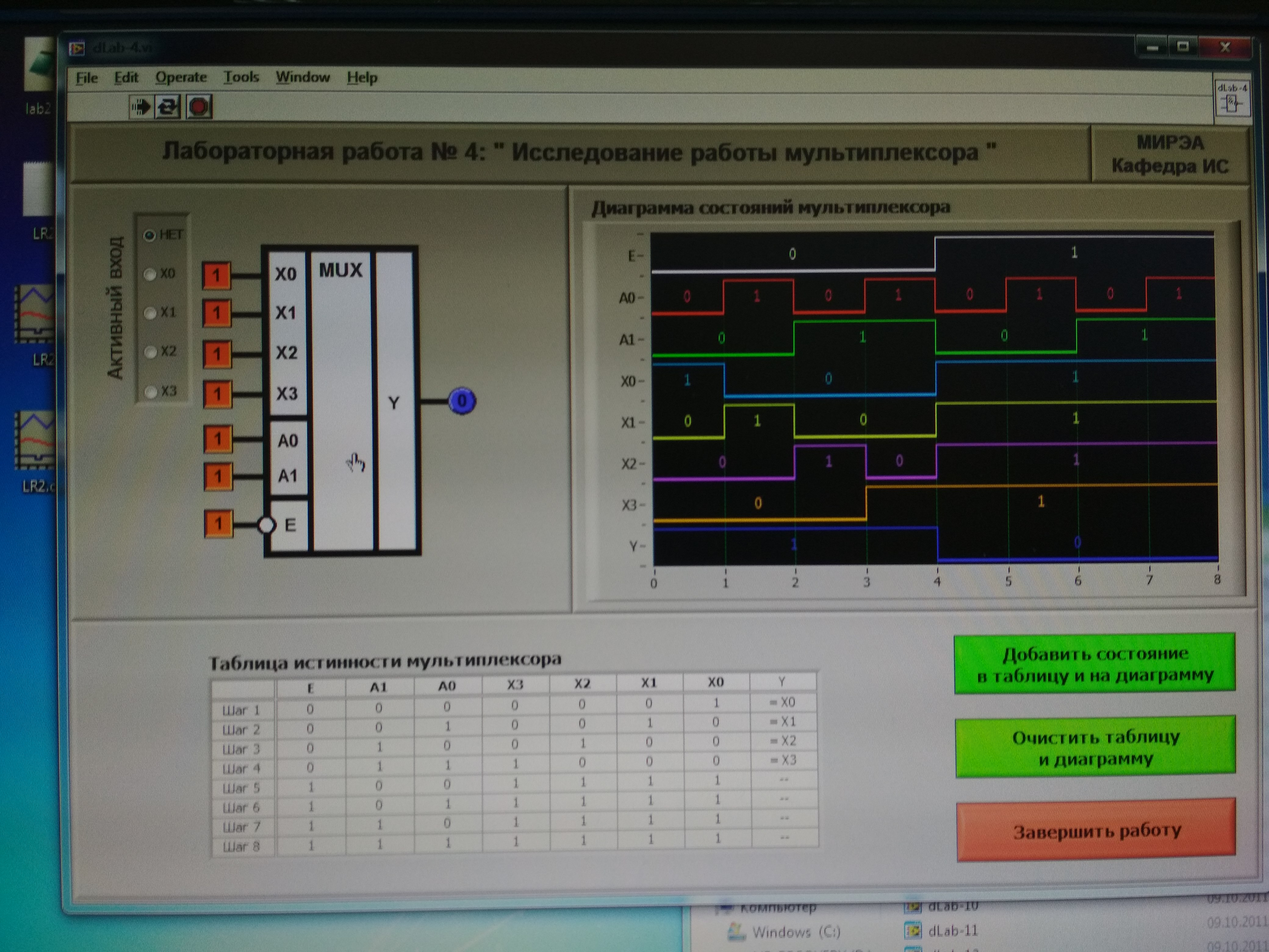
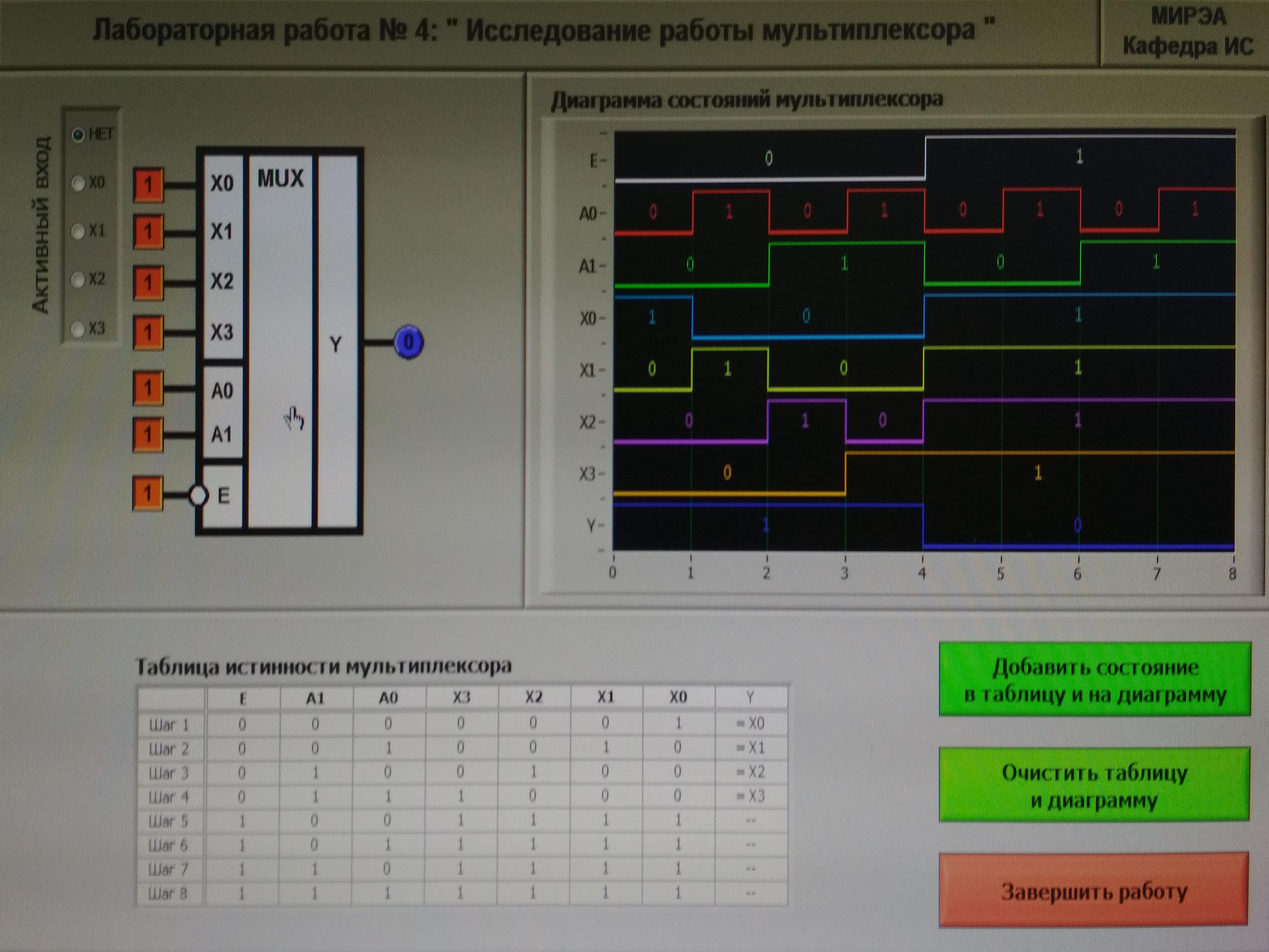
Add lab 4

diff --git a/Lab_201/lab_04.tex b/Lab_201/lab_04.tex
@@ -1,0 +1,21 @@
+\section{ИССЛЕДОВАНИЕ РАБОТЫ МУЛЬТИПЛЕКСОРА}
+
+\begin{figure}[H]
+	\centering
+	\includegraphics[width=0.95\linewidth]{imgs/4/1}
+	\caption{Результат работы мультиплексора}
+	\label{fig:3_}
+\end{figure}
+
+В ходе работы было выяснено, что для работы дешифратора необходимо подать низкий уровень на вход E.
+% Шифратор является приоритетным, вход X6 имеет больший приоритет, чем X3
+
+Элемент SN74LV4052A
+
+Характеристики:
+\begin{itemize}
+	\item 4-Channel Analog Multiplexers and Demultiplexers
+	\item Fast Switching
+	\item 2V to 5.5V $V_{CC}$ Operation
+	\item CMOS
+\end{itemize}

diff --git a/Lab_201/main.tex b/Lab_201/main.tex
@@ -22,6 +22,8 @@
 
 \input{lab_03.tex}
 
+\input{lab_04.tex}
+
 \end{document} % конец документа
 
 
